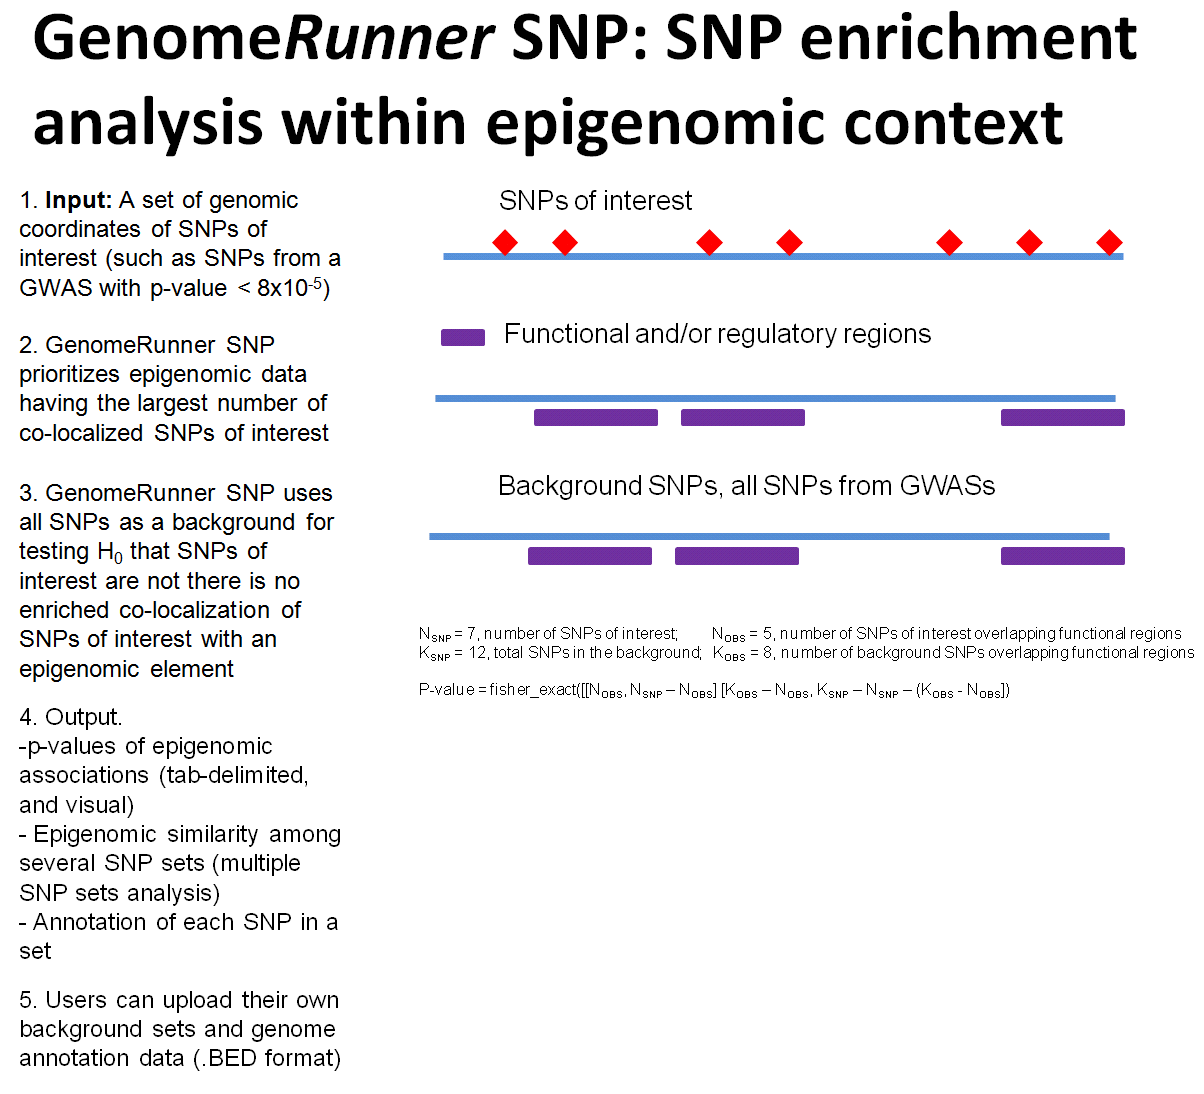
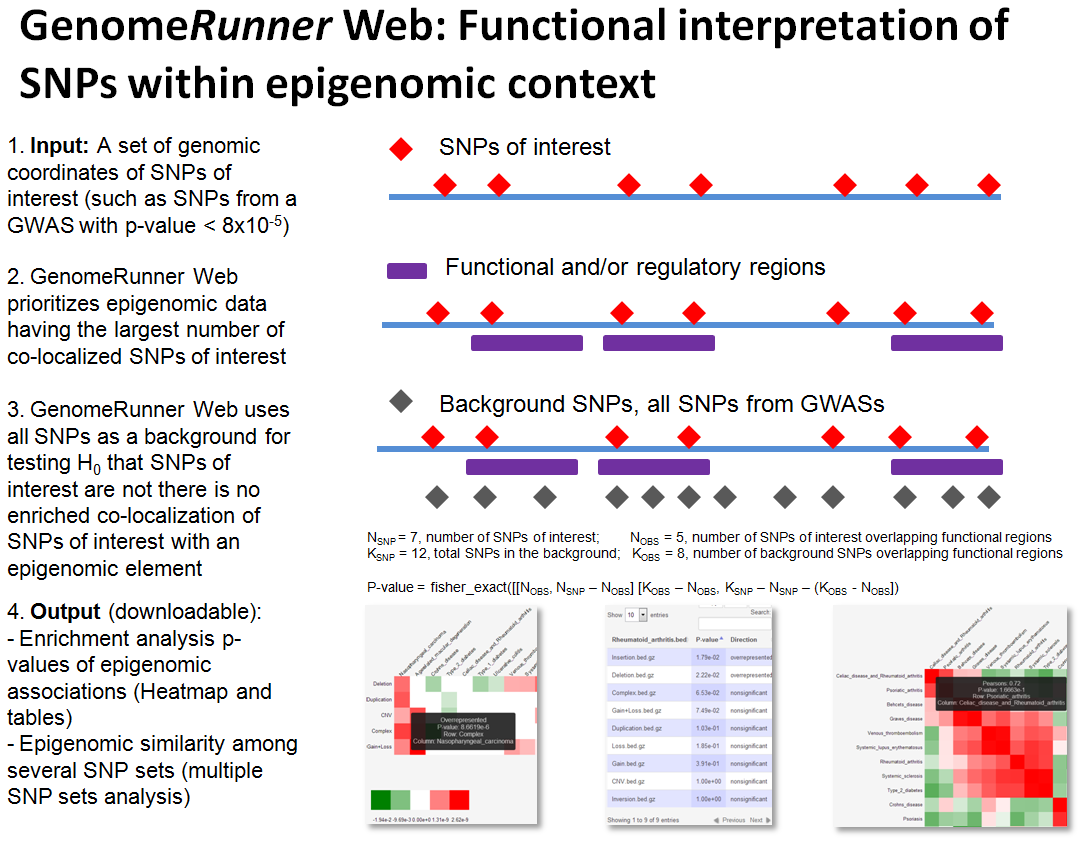
Front page update, overview figure completed

diff --git a/grsnp/frontend/templates/index.html b/grsnp/frontend/templates/index.html
@@ -81,8 +81,8 @@
 	}
 
 	$(document).ready(function() {
-		$("#inputbeddata").text("chr1\t200\t300\tsnp1\t300\t+\nchr2\t200\t300\tsnp2\t400\t-");
-		$("#inputbackgrounddata").text("chr1\t200\t300\tsnp1\t300\t+\nchr2\t200\t300\tsnp2\t400\t-");
+		$("#inputbeddata").text("chr14\t93644378\t93644379\trs1268843\t0\t+\nchr20\t31277093\t31277094\trs210135\t0\t+\nchr17\t41807330\t41807331\trs1513670\t0\t-\nchr7\t12713069\t12713070\trs10488226\t0\t+\nchr22\t27041282\t27041283\trs16982515\t0\t+\nchr19\t51361756\t51361757\trs17632542\t0\t+\nchr16\t53813366\t53813367\trs17817449\t0\t+\nchr10\t96058297\t96058298\trs3765524\t0\t+\nchr7\t16326645\t16326646\trs35681285\t0\t+\nchr13\t38531580\t38531581\trs9548119\t0\t+");
+		$("#inputbackgrounddata").text("chr18\t75653522\t75653523\trs11661856\t0\t+\nchr4\t95834033\t95834034\trs1859156\t0\t+\nchr1\t26521139\t26521140\trs11809207\t0\t+\nchr6\t32127476\t32127477\trs3134950\t0\t-\nchr9\t22098573\t22098574\trs4977574\t0\t+\nchr11\t2936951\t2936952\trs16928809\t0\t+\nchr5\t71410355\t71410356\trs2199161\t0\t+\nchr7\t104503812\t104503813\trs10953454\t0\t+\nchr11\t102628051\t102628052\trs7924357\t0\t+\nchr12\t11962572\t11962573\trs7314811\t0\t+\nchr13\t73728138\t73728139\trs9600079\t0\t+\nchr6\t7102083\t7102084\trs675209\t0\t+\nchr2\t54718180\t54718181\trs4557020\t0\t+\nchr5\t38452893\t38452894\trs7715172\t0\t+\nchr18\t11759431\t11759432\trs9947295\t0\t+\nchr5\t88099950\t88099951\trs4521516\t0\t+\nchr1\t34186192\t34186193\trs528059\t0\t+\nchr8\t101841545\t101841546\trs3108919\t0\t+\nchr19\t17590280\t17590281\trs11666579\t0\t+\nchr7\t28189410\t28189411\trs1635852\t0\t+\n");
 		$('#ucsc').checkboxTree({
 			initializeChecked: 'collapsed',
 			initializeUnchecked: 'collapsed',
@@ -257,11 +257,13 @@
 		<form action="query" method="post" enctype="multipart/form-data">
 			<div class="" s="well" style="margin-top: 40px;">
 				This website is free and open to all users and there is no login requirement.
-			<h3>GenomeRunner WEB: Epigenomic enrichment and similarity analyses of sets of SNPs</h3>
+		<h3>
+			GenomeRunner Web: Functional interpretation of SNPs within epigenomic context</h3>
 		<p>
-			<span style="font-size:16px;"><span style="font-family:arial,helvetica,sans-serif;">GenomeRunner WEB is a tool for automating functional interpretation of sets of SNPs by considering their co-localization with functional/regulatory genome annotation data (regulatory elements). GenomeRunner WEB is agnostic to the location of protein-coding regions, utilizing whole-genome nature of genome annotation data. Instead of focusing on common SNPs, GenomeRunner WEB permits the analysis of rare variants and SNPs in non-coding regions by assessing their collective effect upon functional/regulatory landscape.<br />
+			<span style="font-size: 16px;"><span style="font-family:arial,helvetica,sans-serif;">GenomeRunner Web is a tool for functional interpretation of sets of SNPs&nbsp;</span></span><span style="font-family: arial, helvetica, sans-serif; font-size: 16px;">by considering their co-localization with functional/regulatory genome annotation data (epigenomic elements). It is particularly useful for the interpretation of functional roles of SNPs in non-protein coding regions, and rare variants. An example of GenomeRunner&#39;s results can be found in the analysis of Sjogren&#39;s syndrome GWAS (<em><a href="http://www.nature.com/ng/journal/v45/n11/full/ng.2792.html" target="_blank">Nature Genetics</a></em>), where it identified RFX5 transcription factor binding site as strongly associated with the disease&#39; SNPs.</span></p>
+		<p>
 			<br />
-			As an <a href="result?id=y8jy8biuyltlxq9al8g0u5zbhbywphb2">output</a>, GenomeRunner WEB calculates <a href="help#enrichment">enrichment p-values</a> for each set of SNPs - regulatory element, visualizes the results as a heatmap, and produces sortable tables with p-values. For two or more sets of SNPs, GenomeRunner WEB performs <a href="help#episimilarity">&#39;epigenomic similarity&#39; analysis</a>, and plots a heatmap of sets of SNPs clustered by their &#39;epigenomic connectivity&#39;.</span></span></p>
+			<span style="font-size:16px;"><span style="font-family:arial,helvetica,sans-serif;">As an <a href="result?id=y8jy8biuyltlxq9al8g0u5zbhbywphb2">output</a>, GenomeRunner Web calculates <a href="help#enrichment">enrichment p-values</a>&nbsp;by evaluating whether a&nbsp;set of SNPs co-localizes with regulatory elements more often that could happen by chance. For two or more sets of SNPs, GenomeRunner Web performs <a href="help#episimilarity">&#39;epigenomic similarity&#39; analysis</a>&nbsp;by correlating set-specific profiles of enrichment p-values. Downloadable results are visualized as interactive heatmaps and tables.</span></span></p>
 		<p>
 			&nbsp;</p>
 			</div>
@@ -271,7 +273,7 @@
 					${paths.org_as_html(id="org")} 
 			<img class="helptooltip" title="Select organism-specific genome assembly" style="position: relative;top: 6px;" width=25 height=25 src="static/images/help-icon.png" alt="help"/>
 				</div> 
-				<h3>1. Select sets of SNPs of interest <img class="helptooltip" title="Upload sorted .BED formatted files with genomic coordinates of SNPs of interest" style="position: relative;top: 6px;" width=25 height=25 src="static/images/help-icon.png" alt="help"/>
+				<h3>1. Select sets of SNPs of interest <img class="helptooltip" title="Upload .BED formatted files with genomic coordinates of SNPs of interest. Multiple file upload supported." style="position: relative;top: 6px;" width=25 height=25 src="static/images/help-icon.png" alt="help"/>
 				</h3>
 				<div id="div_upload_fois"	style="float: left;margin-right: 13px;margin-top: 14px;"	>
 					<h4 style="float:left;">Bed Files:</h4><input type="file" id="inputbedfile" style="margin:5px" name="bed_file" multiple="multiple"/>
@@ -304,7 +306,7 @@
 					</div>
 			</div>	
 			<div class="well">
-				<h3>2. Define the background: ${default_background}<img class="helptooltip" title="By default, all known SNPs are used as a 'population', used to calculate the probability of SNPs in a set to be enriched with an epigenomic element" style="position: relative;top: 6px;" width=25 height=25 src="static/images/help-icon.png" alt="help"/>
+				<h3>2. Define the background: ${default_background}<img class="helptooltip" title="By default, all common SNPs are used as a 'population' to calculate the probability of SNPs in a set to be enriched with an epigenomic element" style="position: relative;top: 6px;" width=25 height=25 src="static/images/help-icon.png" alt="help"/>
 				</h3>
 				<b style="font-size:120%; margin-left: 10px"></b>
 					<div class="accordion" style="padding-bottom: 1em;list-style:none">        
@@ -322,8 +324,8 @@
 											</td>
 											<td>
 												<label stlye="float:left">
-													The background, or population selection is critical for the correct p-value calculation. The background represents all SNPs being negotiated in user's study. A set of SNPs being analyzed should be a subset of the background. If that is not the case, a warning is generated.<br><br>
-													Default background selection &#40;all SNPs from the latest organism-specific database&#41; is suitable when a genome-wide study was performed. When a microarray was used for ANPs profiling, it is advisable to use all SNPs on that array as a background.
+													The background, or population selection is critical for the correct p-value calculation. The background represents all SNPs being evaluated in a user's study. A set of SNPs of interest should be a subset of the background. If that is not the case, a warning is generated.<br><br>
+													Default background selection &#40;all common SNPs from the latest organism-specific database&#41; is suitable when a genome-wide study was performed. When a microarray was used for SNPs profiling, it is advisable to use all SNPs on that array as a background.
 												</label>
 											</td>
 										</tr>
@@ -344,7 +346,7 @@
 						<li id="list-bedbackground">					
 							Bed Files (.bed or .gz):
 							<input type="file" id="inputgenomicfeaturefile" style="margin:5px" name="genomicfeature_file" multiple="multiple"/>
-							<a href="http://genome.ucsc.edu/FAQ/FAQformat.html#format1">How my data should look like?</a>
+							<a href="http://genome.ucsc.edu/FAQ/FAQformat.html#format1">What should my data  look like?</a>
 						</li>				
 					</ul>
 					<div id="grfdroplist" style="display: table;">	
@@ -375,7 +377,7 @@
 									</div>
 								</div>
 								<div style="margin:10px; display: table-cell;  verticle-align: top; padding-left:10px">
-										<label style="">Genome annotation data (epigenomic data) are mirrored from and organized according to the UCSC genome database scheme. If you know names of the tracks you want to run enrichment analyses with, start typing their names in the search box. Or simply search for keywords, like 'H3K4me1', to see which tracks are available. Use checkboxes in the collapsible TreeView to select groups of epigenomic elements</label>
+										<label style="">Genome annotation data (functional/regulatory/epigenomic data) are mirrored from and organized according to the UCSC genome database scheme. If you know names of the tracks you want to run enrichment analyses with, start typing their names in the search box. Or simply search for keywords, like 'H3K4me1', to see which tracks are available. Use checkboxes in the collapsible TreeView to select groups of epigenomic elements</label>
 								</div>
 								
 						</div>
@@ -391,7 +393,7 @@
 
 						<td id="td_submit" style="width:90px">
 							<button class="btn btn-primary" type="submit" >Submit job</button>
-	<img class="helptooltip" title="Submits the job for enrichment analysis" style="position: relative;top: 6px;" width=25 height=25 src="static/images/help-icon.png" alt="help"/>
+	<img class="helptooltip" title="Submits the job for enrichment/epigenomic association analyses" style="position: relative;top: 6px;" width=25 height=25 src="static/images/help-icon.png" alt="help"/>
 						</td>
 						<td id="td_submit" style="width:170px">
 							
